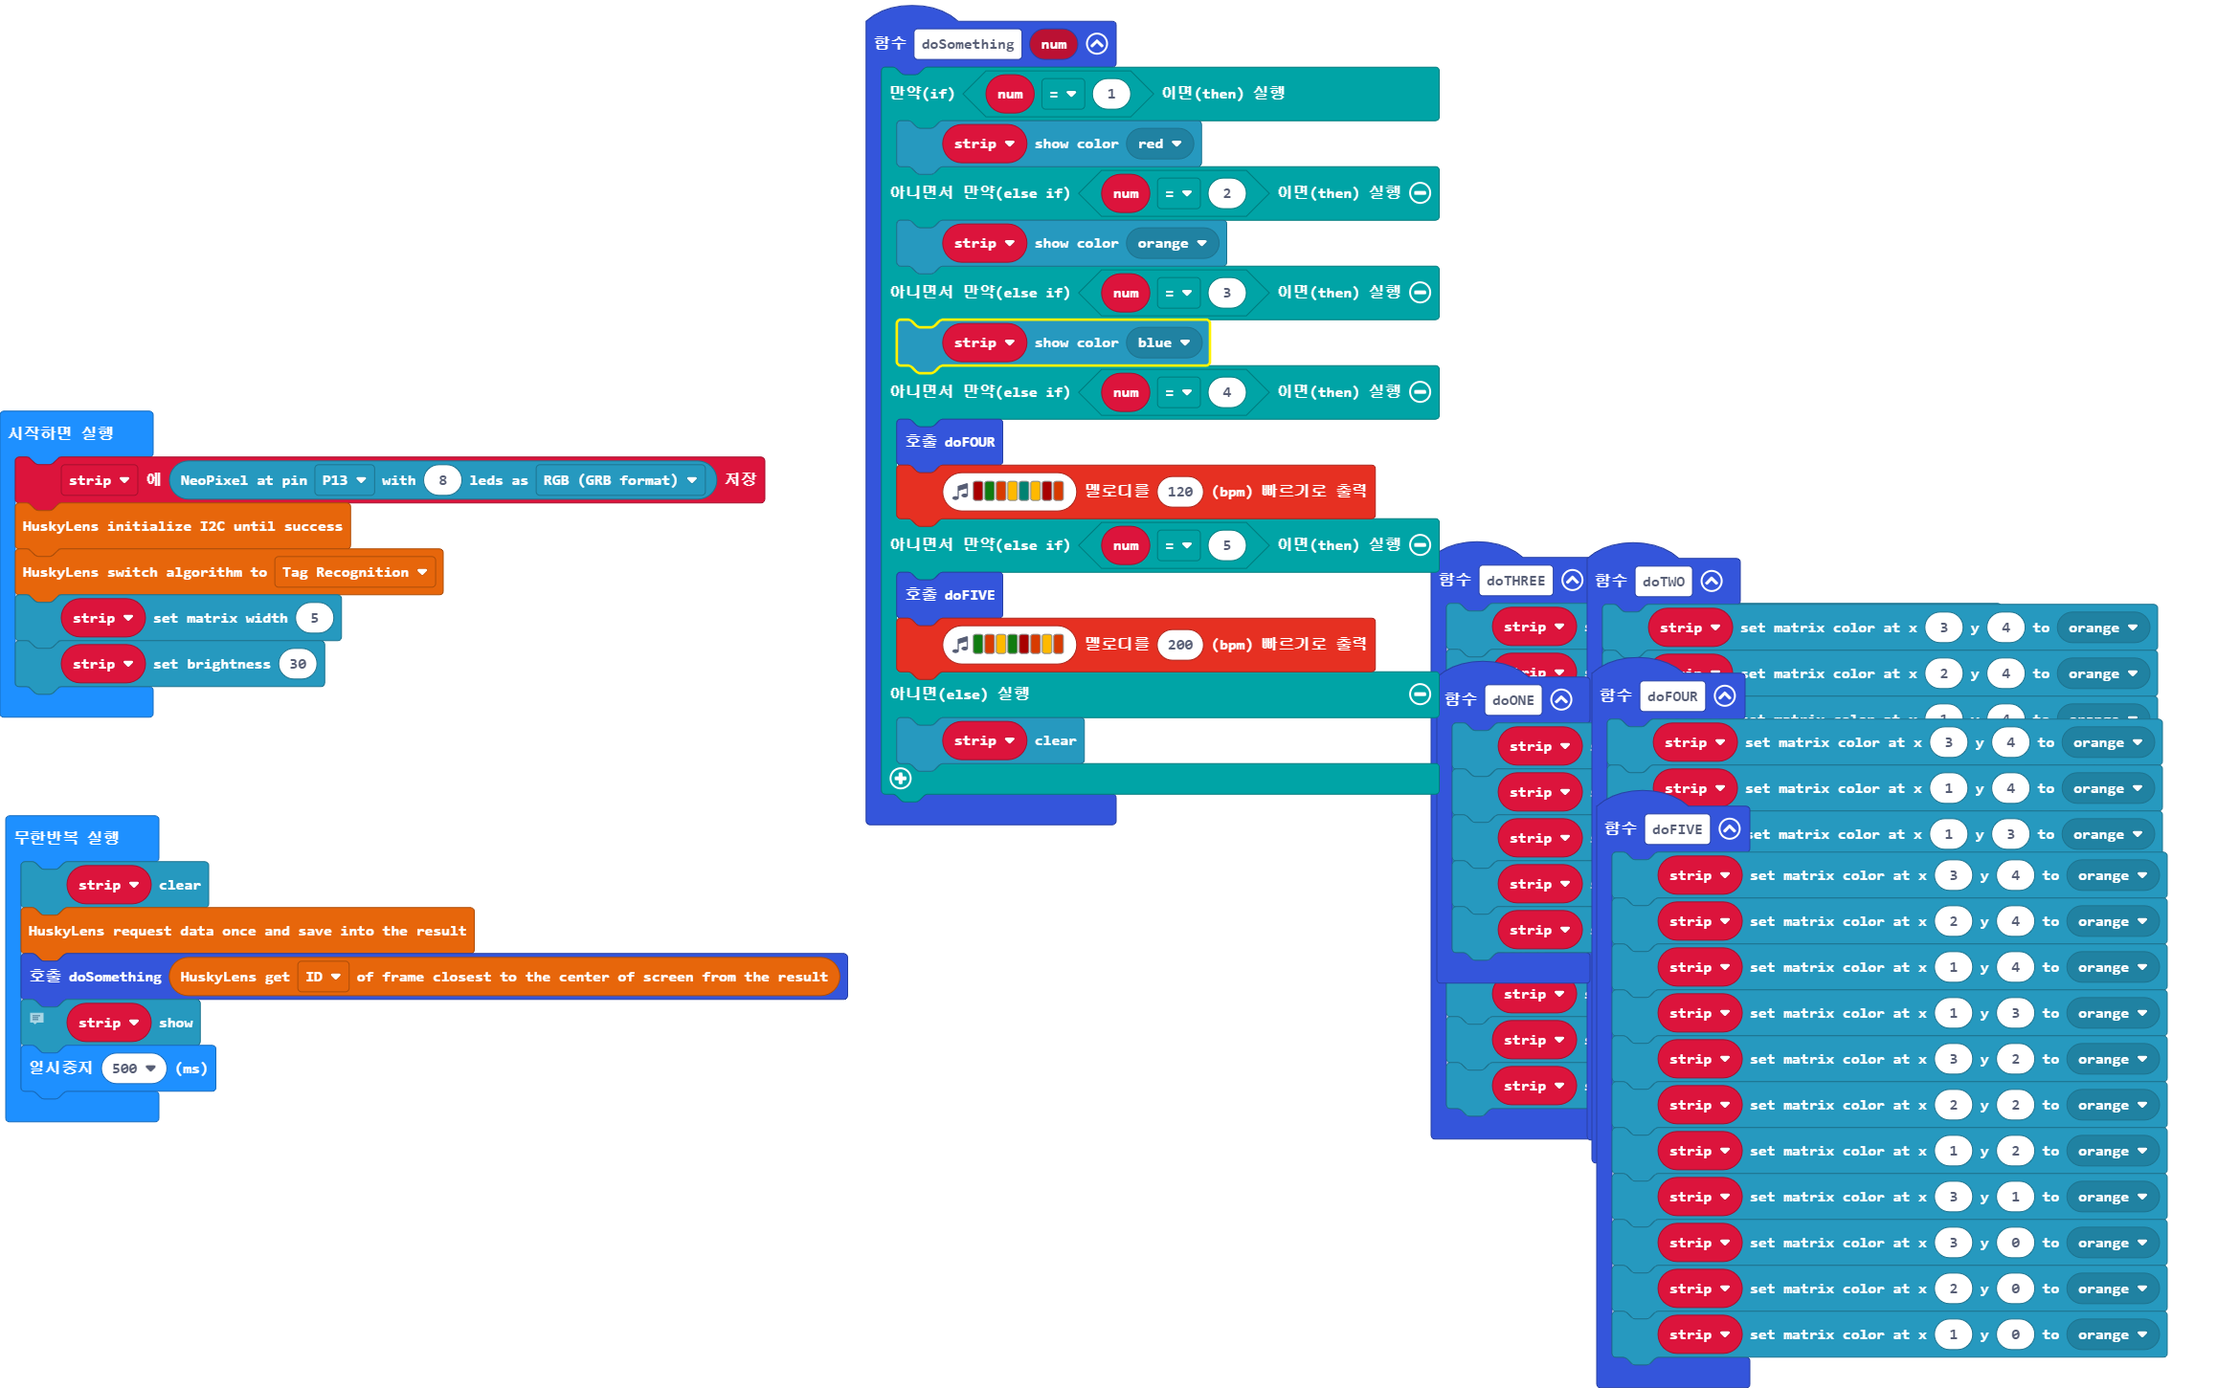
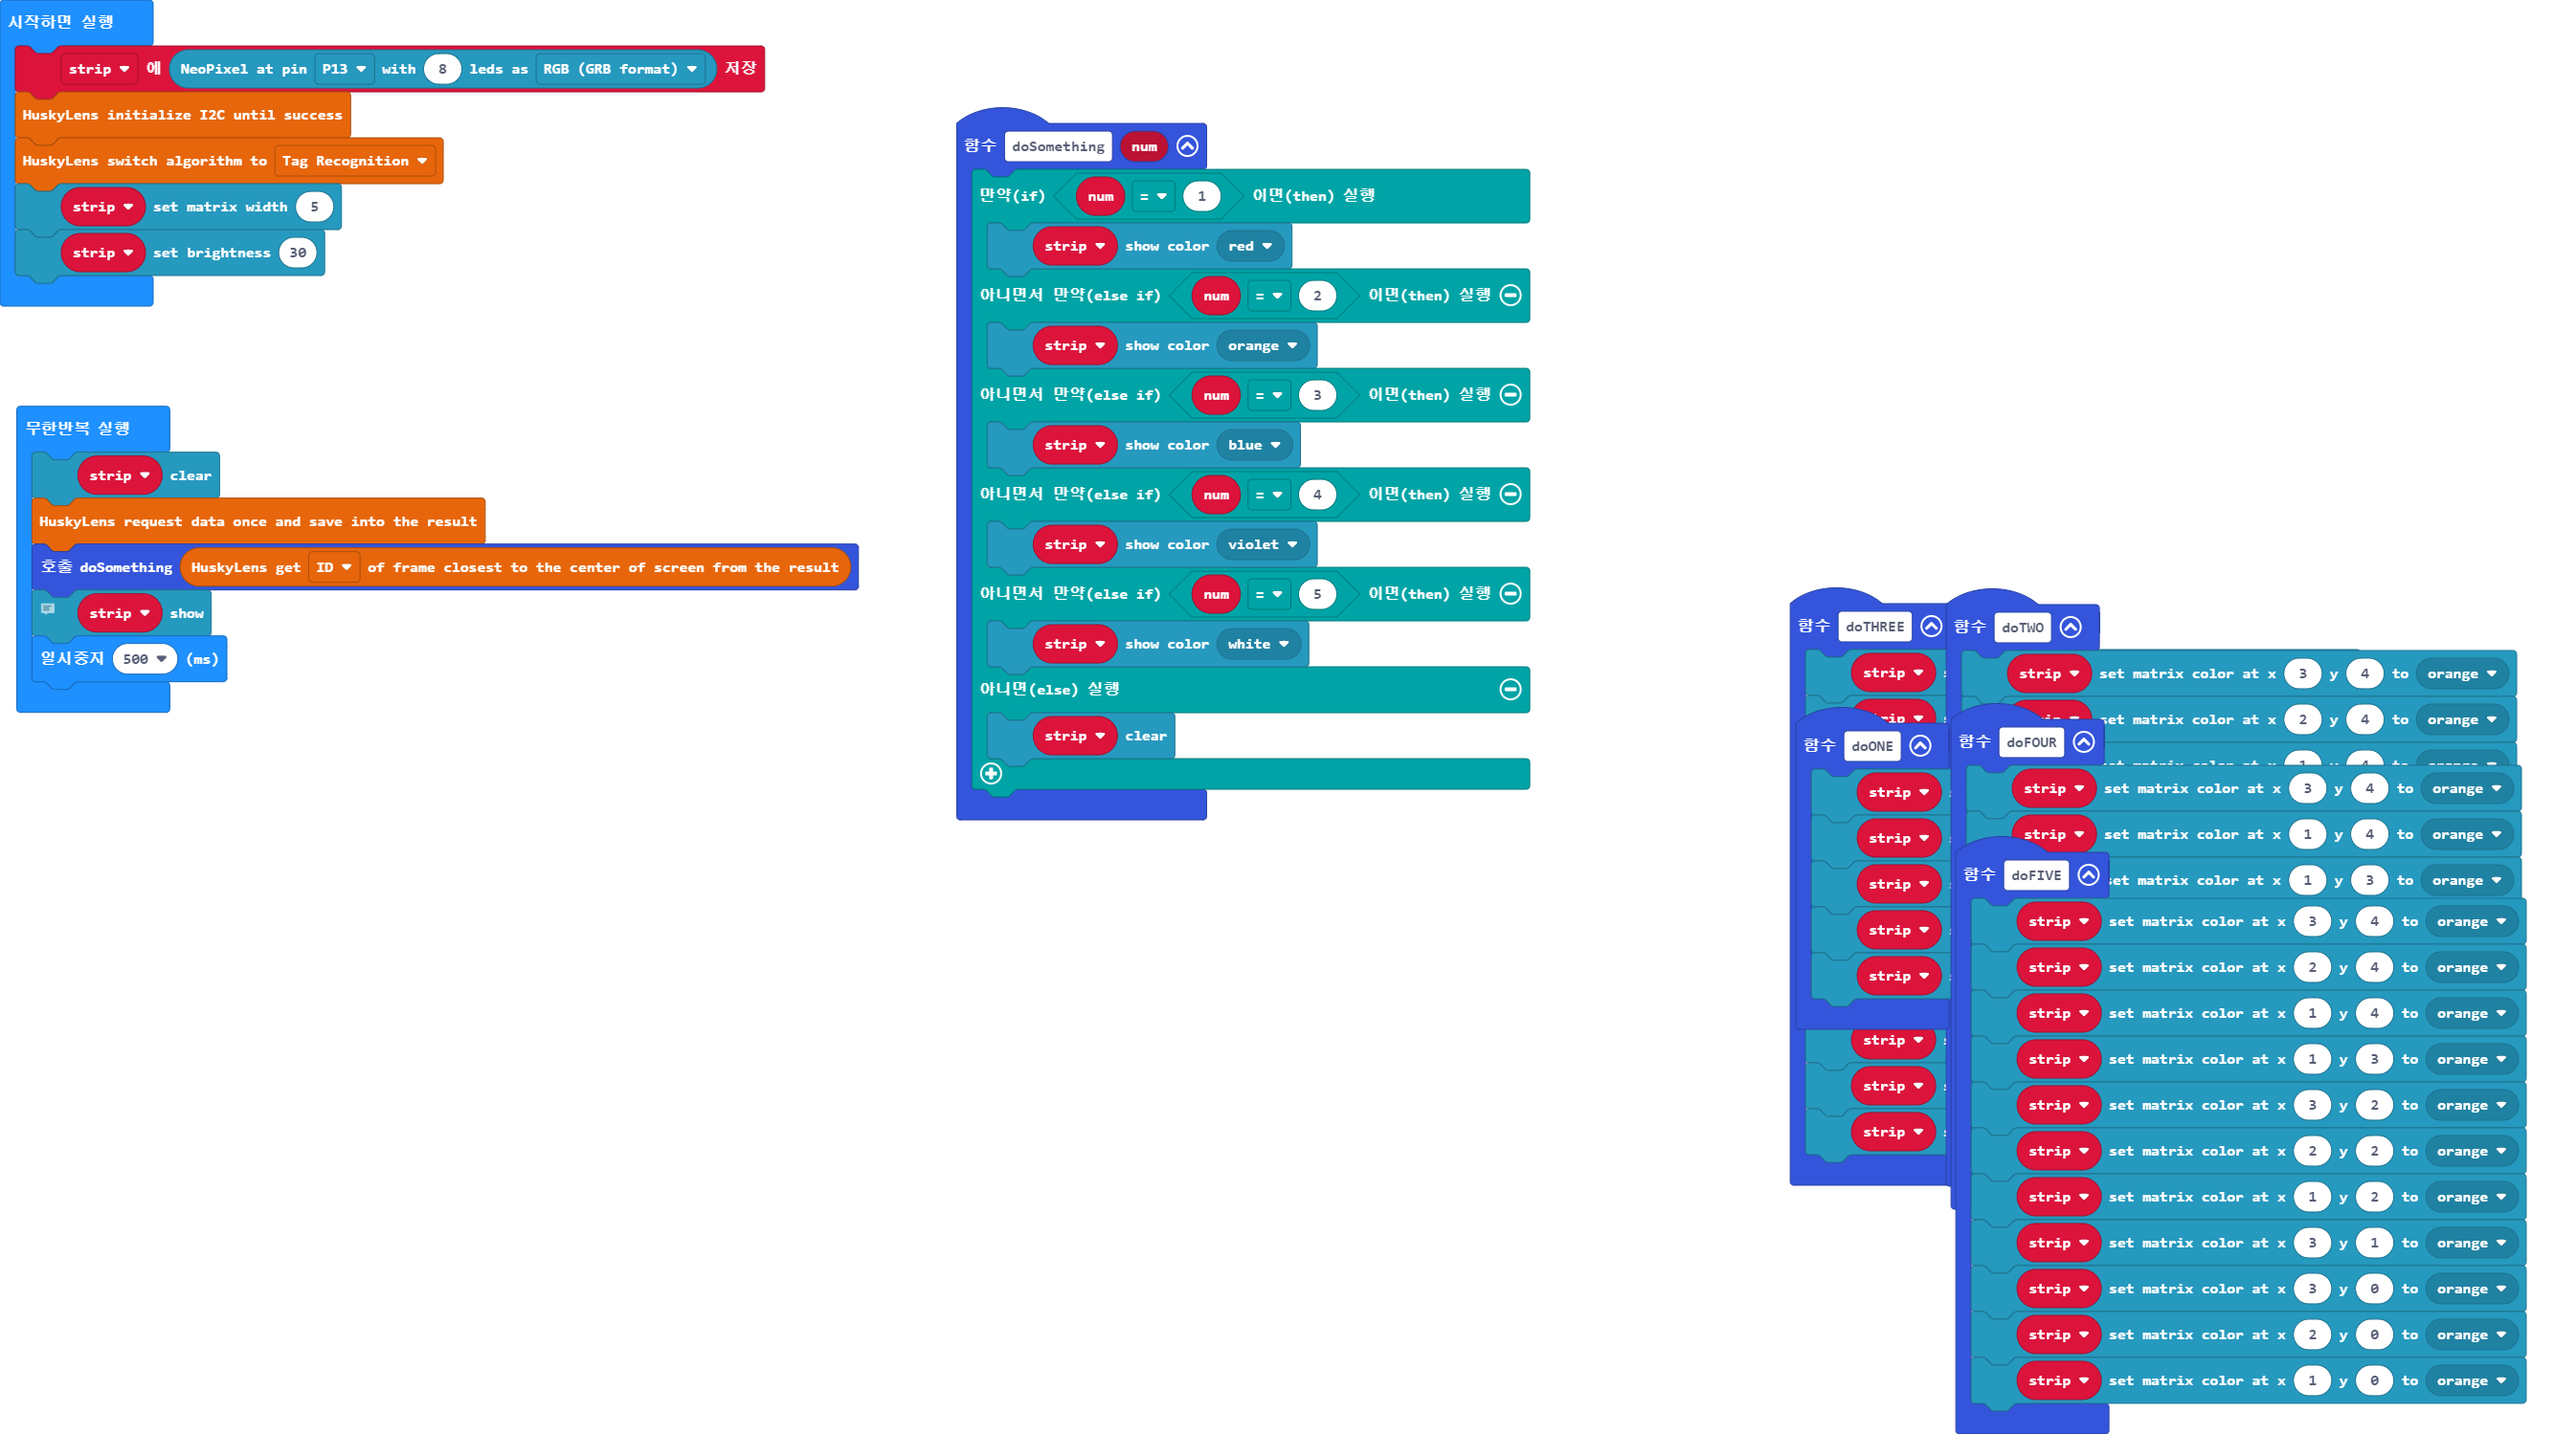
main.blocks, main.ts 업데이트하기

diff --git a/main.ts b/main.ts
@@ -30,11 +30,9 @@ function doSomething (num: number) {
     } else if (num == 3) {
         strip.showColor(neopixel.colors(NeoPixelColors.Blue))
     } else if (num == 4) {
-        doFOUR()
-        music.playMelody("C5 G B A F A C5 B ", 120)
+        strip.showColor(neopixel.colors(NeoPixelColors.Violet))
     } else if (num == 5) {
-        doFIVE()
-        music.playMelody("G B A G C5 B A B ", 200)
+        strip.showColor(neopixel.colors(NeoPixelColors.White))
     } else {
         strip.clear()
     }
